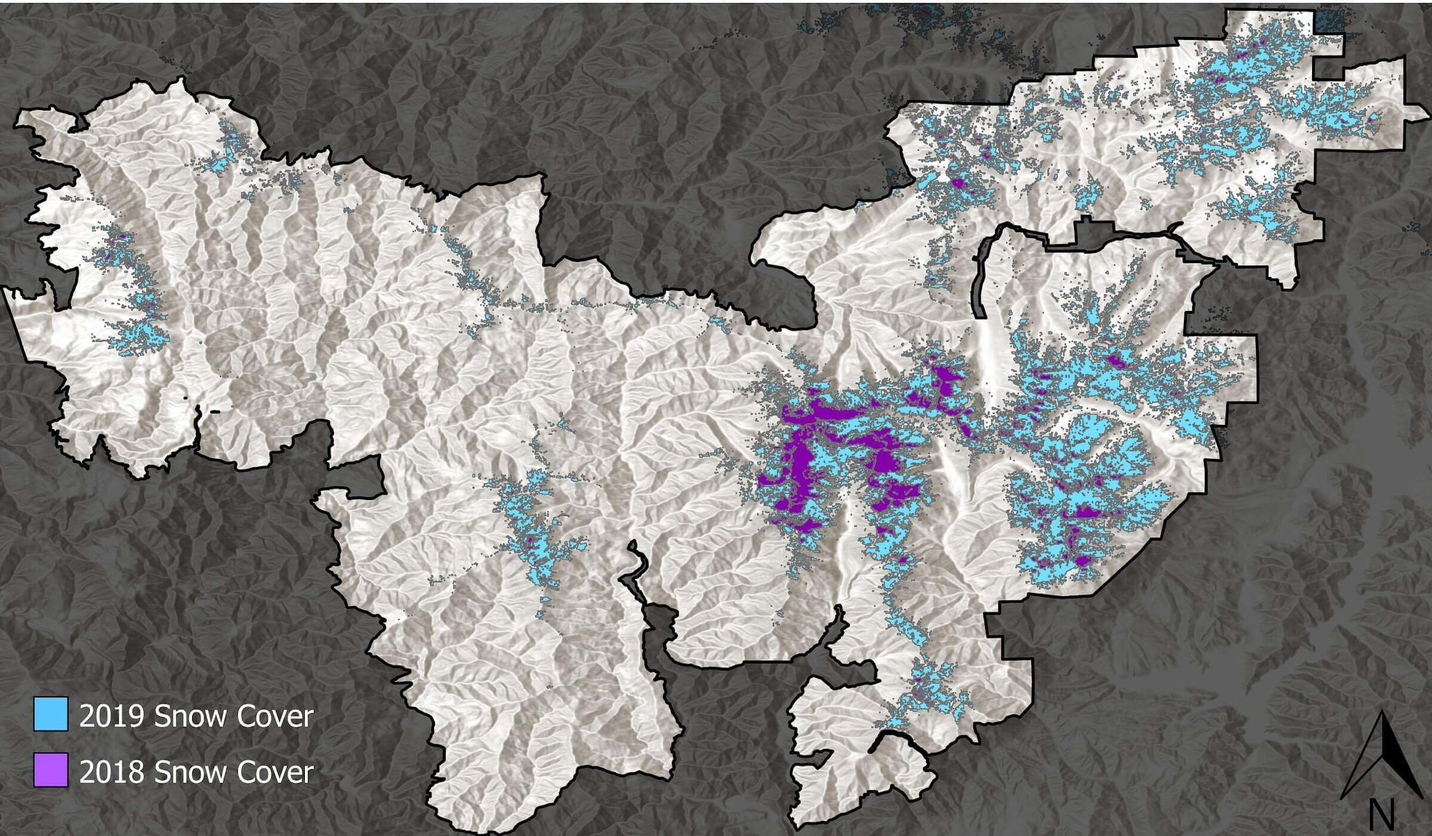
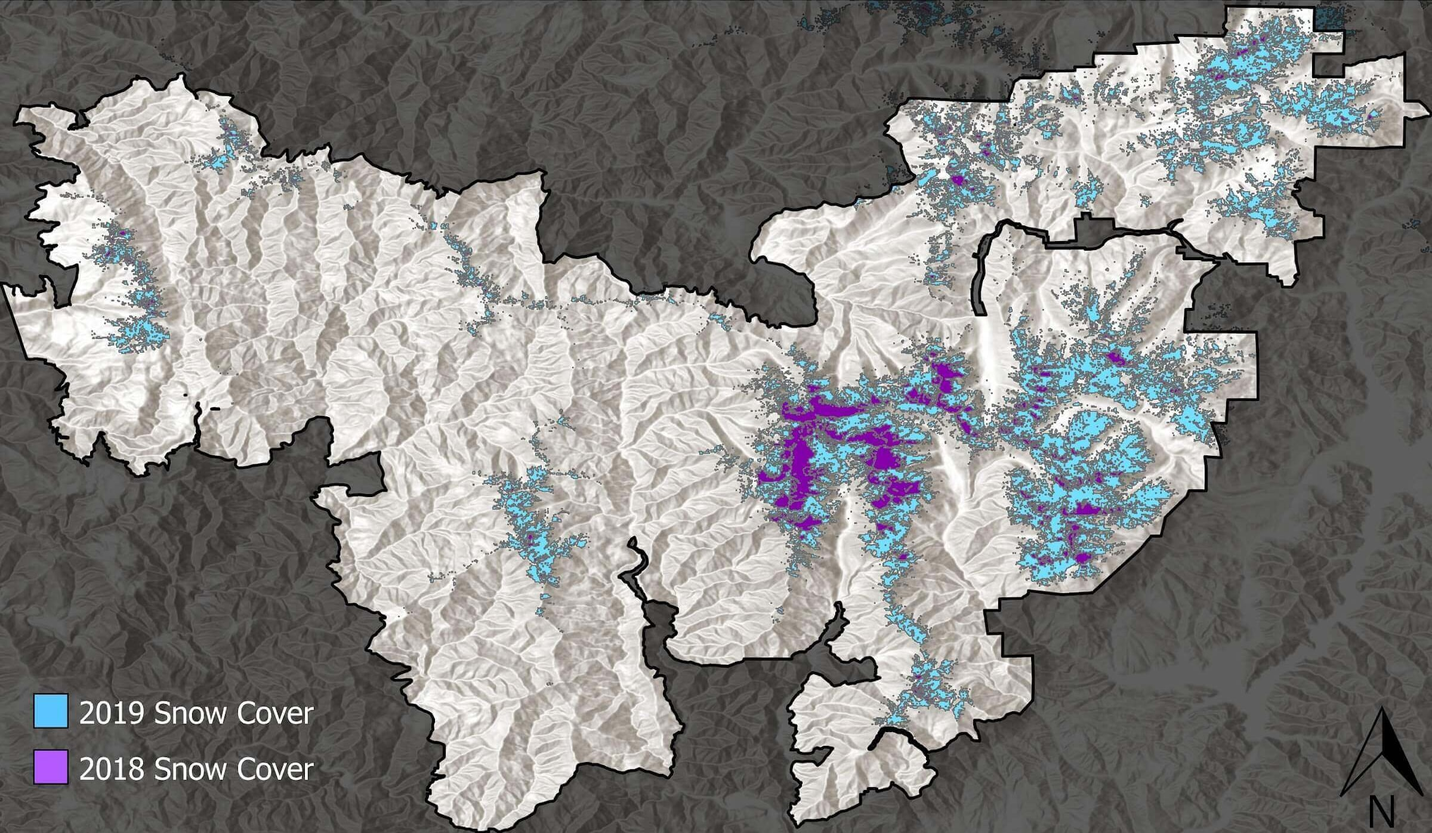
updated website slugs for articles for uniformity

diff --git a/src/styles/global.css b/src/styles/global.css
@@ -72,33 +72,15 @@ h3 {
    loses its highlighting. The :not() exclusions above keep our rules
    off code-block spans, so the inline colors apply naturally. */
 
-.dark .prose a {
+/* Dark mode link color: every link in the page body, plus pagination buttons.
+   Header, footer and card text keep their own colors. */
+.dark main a,
+.dark [data-pagination] button:enabled {
   color: #fbbf24 !important;
 }
 
-.dark .prose a:hover {
-  color: #fcd34d !important;
-}
-
-/* Dark mode link color for utility/navigation links outside prose
-   (pagination, back-links, "view more", etc.) that use Tailwind's
-   text-blue-600. Keeps links bright and clearly distinct from white. */
-.dark .text-blue-600 {
-  color: #fbbf24 !important;
-}
-
-.dark .text-blue-600:hover,
-.dark .hover\:text-blue-800:hover {
-  color: #fcd34d !important;
-}
-
-/* Links that already opt into a dark variant (dark:text-blue-400) —
-   keep them consistent with the amber link color above. */
-.dark .dark\:text-blue-400 {
-  color: #fbbf24 !important;
-}
-
-.dark .dark\:hover\:text-blue-300:hover {
+.dark main a:hover,
+.dark [data-pagination] button:enabled:hover {
   color: #fcd34d !important;
 }
 

diff --git a/src/lib/image-slider.ts b/src/lib/image-slider.ts
@@ -7,7 +7,6 @@ export class ImageSlider {
   private container: HTMLElement;
   private slider: HTMLElement;
   private beforeImage: HTMLElement;
-  private sliderButton: HTMLElement;
   private isResizing: boolean = false;
   private currentPosition: number = 50; // Start at 50%
 
@@ -22,15 +21,13 @@ export class ImageSlider {
     // Get required elements
     const slider = container.querySelector('.image-slider-handle') as HTMLElement;
     const beforeImage = container.querySelector('.image-slider-before') as HTMLElement;
-    const sliderButton = container.querySelector('.image-slider-button') as HTMLElement;
 
-    if (!slider || !beforeImage || !sliderButton) {
+    if (!slider || !beforeImage) {
       throw new Error('Required slider elements not found');
     }
 
     this.slider = slider;
     this.beforeImage = beforeImage;
-    this.sliderButton = sliderButton;
 
     this.init();
   }

diff --git a/scripts/add-book.ts b/scripts/add-book.ts
@@ -153,6 +153,9 @@ const addBook = async (argv: readonly string[]): Promise<void> => {
   }
 
   const slug = slugify(match.title);
+  if (!slug) {
+    throw new Error(`Couldn't make a file name from "${match.title}". Use a title with English letters or numbers.`);
+  }
   const contentPath = `${BOOKS_CONTENT_DIR}/${slug}.md`;
   const coverPath = `${BOOK_COVERS_DIR}/${slug}.jpg`;
 

diff --git a/src/lib/chart.ts b/src/lib/chart.ts
@@ -21,10 +21,7 @@ export interface ChartConfig {
   title?: string;
   subtitle?: string;
   datasets: ChartDataset[];
-  xAxisLabel?: string;
-  yAxisLabel?: string;
   height?: number;
-  width?: number;
   colors?: string[];
   showLegend?: boolean;
   showGrid?: boolean;

diff --git a/README.md b/README.md
@@ -56,7 +56,16 @@ Text here.
 ```
 
 - URL is the filename: `/writing/tech/my-slug`, `/projects/my-slug`.
-- Projects can also have `link:` and `github:`.
+- Projects can also have `link:` and `github:`. Tech posts can have `github:`.
+- A post with `github:` or `link:` gets a GitHub or Live Demo link.
+- The back link and date label ("completed on" or "written on") are set in `ARTICLE_SETTINGS` in `src/layouts/ArticleLayout.astro`.
+
+### Add a section
+
+1. Add a collection to `src/content.config.ts`.
+2. Add a row to `ARTICLE_SETTINGS` in `src/layouts/ArticleLayout.astro`.
+3. Copy `src/pages/writing/life/` and change the collection name.
+4. Run `npm run check` and fix what it reports.
 
 ### Add an image
 
